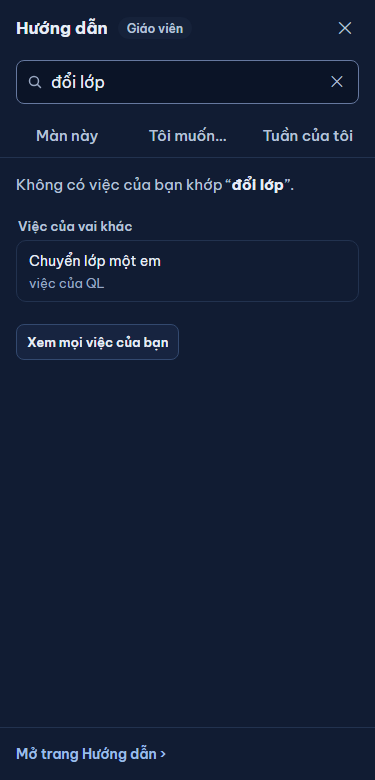
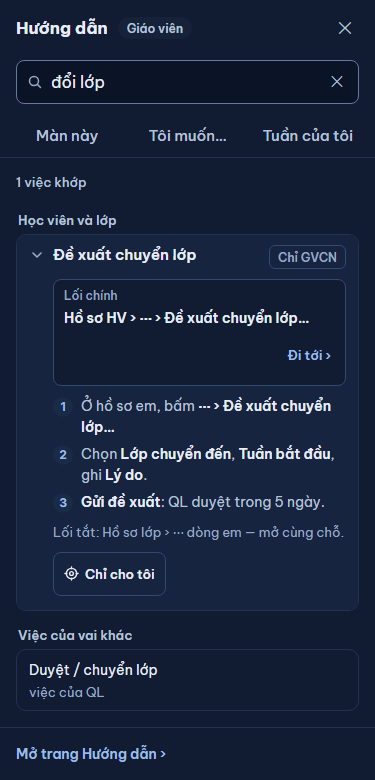
thiet-ke v14: C2 tìm "đổi lớp" ra Đề xuất chuyển lớp (GVCN) + C3 không khớp thật (xoá tài khoản)

diff --git a/thiet-ke/v14/huong-dan.html b/thiet-ke/v14/huong-dan.html
@@ -225,7 +225,8 @@ mark { background:var(--hong-nen); color:var(--hong-chu); border-radius:3px; pad
     <div class="cap">
       <figure><figcaption>C · 1440 tối</figcaption><div class="man toi" data-k="c1"></div></figure>
       <figure><figcaption>C · 375 sáng</figcaption><div class="dt sang" data-k="c1m"></div></figure>
-      <figure><figcaption>C2 · 375 tối · không có việc của bạn khớp → chỉ việc vai khác</figcaption><div class="dt toi" data-k="c2m"></div></figure>
+      <figure><figcaption>C2 · 375 tối · "đổi lớp" khớp từ đồng nghĩa → Đề xuất chuyển lớp + việc vai khác</figcaption><div class="dt toi" data-k="c2m"></div></figure>
+      <figure><figcaption>C3 · 375 sáng · không có việc của bạn khớp</figcaption><div class="dt sang" data-k="c3m"></div></figure>
     </div>
   </section>
 
@@ -423,9 +424,15 @@ mark { background:var(--hong-nen); color:var(--hong-chu); border-radius:3px; pad
       { ten: 'Làm cả lớp một lần' }
     ])) + khongLam([['Xếp, dời lịch MT', 'việc của QL', 1], ['Duyệt yêu cầu', 'việc của QL', 1]]);
 
-  /* C2: không có việc CỦA VAI NÀY khớp → vẫn chỉ đúng chỗ: việc vai khác (chữ nhạt, không link) + từ đồng nghĩa (đổi lớp → Chuyển lớp) */
-  var thanC2 = '<div class="rong-tim"><p>Không có việc của bạn khớp “<b>đổi lớp</b>”.</p></div>' +
-    '<div><h3 class="nhom-hd">Việc của vai khác</h3><div class="khong-lam vai-khac"><div><span>Chuyển lớp một em</span><span class="cua-ai">việc của QL</span></div></div></div>' +
+  /* C2: "đổi lớp" khớp qua từ đồng nghĩa → việc GVCN "Đề xuất chuyển lớp" (ChuyenLopPanel cheDo="de-xuat", ⋯ hồ sơ HV / ⋯ dòng em hồ sơ lớp)
+     + việc vai khác (chữ nhạt, không link). Khớp qua từ đồng nghĩa: không tô hồng. */
+  var vaiKhac = function (ten, ai) { return '<div><h3 class="nhom-hd">Việc của vai khác</h3><div class="khong-lam vai-khac"><div><span>' + e(ten) + '</span><span class="cua-ai">' + e(ai) + '</span></div></div></div>'; };
+  var thanC2 = '<p class="dem-kq">1 việc khớp</p><div class="ds-nhom">' + nhomViec('Học viên và lớp', [
+      { ten: 'Đề xuất chuyển lớp', vai: 'Chỉ GVCN', mo: 1, chinh: 'Hồ sơ HV › ⋯ › Đề xuất chuyển lớp…',
+        buoc: ['Ở hồ sơ em, bấm **⋯ › Đề xuất chuyển lớp…**', 'Chọn **Lớp chuyển đến**, **Tuần bắt đầu**, ghi **Lý do**.', '**Gửi đề xuất**: QL duyệt trong 5 ngày.'],
+        tat: 'Hồ sơ lớp › ⋯ dòng em — mở cùng chỗ.' }]) + vaiKhac('Duyệt / chuyển lớp', 'việc của QL') + '</div>';
+  /* C3: thật sự không có việc của vai này → một câu + việc vai khác + về danh sách đủ */
+  var thanC3 = '<div class="rong-tim"><p>Không có việc của bạn khớp “<b>xoá tài khoản</b>”.</p></div>' + vaiKhac('Xoá tài khoản', 'việc của Quản trị') +
     '<div><button class="nut nut-nho">Xem mọi việc của bạn</button></div>';
   var K = {};
   K.a1 = thanh({ vai: 'gv', dang: 'Test', badge: 9, ten: 'Trần Ngọc Hà', mo: 1, tin: 2 }) + lichTest() + panel({ vai: 'Giáo viên', tab: 0, than: thanA });
@@ -437,6 +444,7 @@ mark { background:var(--hong-nen); color:var(--hong-chu); border-radius:3px; pad
   K.c1 = thanh({ vai: 'gv', dang: 'Test', badge: 9, ten: 'Trần Ngọc Hà', mo: 1, tin: 2 }) + lichTest() + panel({ vai: 'Giáo viên', tab: 1, q: 'nhập điểm', than: thanC });
   K.c1m = thanh({ dt: 1, mo: 1, tin: 2 }) + panel({ vai: 'Giáo viên', tab: 1, q: 'nhập điểm', than: thanC });
   K.c2m = thanh({ dt: 1, mo: 1, tin: 2 }) + panel({ vai: 'Giáo viên', tab: 1, q: 'đổi lớp', than: thanC2 });
+  K.c3m = thanh({ dt: 1, mo: 1, tin: 2 }) + panel({ vai: 'Giáo viên', tab: 1, q: 'xoá tài khoản', than: thanC3 });
   K.d1 = thanh({ vai: 'tvv', dang: 'Học viên & Lớp', ten: 'Phạm Thu Trang', mo: 1 }) + '<div class="noi-dung"><div class="dau-trang"><h1>Học viên &amp; Lớp</h1></div><div class="the"><div class="than-t">' + [92, 80, 88, 70, 84, 76].map(function (w) { return '<div class="skel" style="width:' + w + '%"></div>'; }).join('') + '</div></div></div>' +
     panel({ vai: 'Tư vấn viên', tab: 2, than: thanD });
   K.d1m = thanh({ dt: 1, mo: 1 }) + panel({ vai: 'Tư vấn viên', tab: 2, than: thanD });

diff --git a/thiet-ke/v14/huong-dan-ghi-chu.md b/thiet-ke/v14/huong-dan-ghi-chu.md
@@ -93,6 +93,7 @@ Trạng thái mockup: **A** GV · Lịch Test tuần · Màn này · **B** QL ·
 3. **[XM-2] Tuần của tôi MỞ TẠI CHỖ:** nhóm theo nhịp (Mỗi sáng · Khi có · Khi gia đình báo · Trước khi em thi · Sau khi em thi), mỗi việc một dòng gập / mở như Tôi muốn… (mở ra: Lối chính + bước); bỏ mũi tên nhảy tab. Lý do: xử lý tại chỗ + một danh sách một kiểu mở. (Thay đặc tả 3.5 — PTA sửa đặc tả.)
 4. **[XM-3]** "Không làm ở đây" không lặp đích đã có ở Sau — A bỏ dòng "Xác nhận Case, PA · ghi kết quả", thay "Xem điểm cả lớp qua các lượt → Hồ sơ lớp ›".
 5. **P2:** giữ ô **Lối chính** một dáng ở cả 3 tab (thay "dòng nhạt" đặc tả 3.3) — đồng ý.
+6. **C2 sửa nội dung (PTA rà lần 2):** GVCN CÓ việc **Đề xuất chuyển lớp** (#914) — gõ "đổi lớp" ra việc đó (nhãn Chỉ GVCN; Lối chính **Hồ sơ HV › ⋯ › Đề xuất chuyển lớp…**, lối tắt Hồ sơ lớp › ⋯ dòng em — tra `ChuyenLopPanel` `cheDo="de-xuat"`, `shared/domain/hocVienLop.ts`; bước theo nhãn form: Lớp chuyển đến · Tuần bắt đầu · Lý do · **Gửi đề xuất**) + "Việc của vai khác": **Duyệt / chuyển lớp — việc của QL**. Trạng thái không khớp chuyển sang **C3** "xoá tài khoản" → "Xoá tài khoản — việc của Quản trị" (nút có thật ở `AccountsAdmin`).
 
 ## 4b. [XM] đã gửi PTA (trả lời ở 3b)
 - **[XM-1] Tìm theo từ đồng nghĩa và việc vai khác** (C2): gõ "đổi lớp" ra "Chuyển lớp một em — việc của QL". Đặc tả 3.2 chỉ giữ `locHd` (bỏ dấu). Muốn có: thêm trường `tuKhac` cho mỗi việc + đọc cả việc của vai khác (chỉ tên + "việc của …", không bước). Chữ khớp qua từ đồng nghĩa KHÔNG tô hồng. Không thì C2 chỉ còn câu "Không có việc nào khớp" + Xem mọi việc.
@@ -113,4 +114,4 @@ F3: QL Vy không dạy lớp nên menu không có "Hồ sơ giáo viên"; QL có
 
 ## 5. Ảnh (thiet-ke/v14/anh/)
 Chụp bằng Chrome headless từ chính tệp mockup (`huong-dan.html?k={khung}&n={toi|sang}`), phông Be Vietnam Pro đã nạp (`document.fonts.check('600 15px "Be Vietnam Pro"', 'ợ')` = true).
-A1 `a1-1440-toi` · `a1-375-sang` · A2 `a2-1440-toi` · B `b-1440-toi` · `b-375-sang` · C `c-1440-toi` · `c-375-sang` · C2 `c2-375-toi` · D `d-1440-toi` · `d-375-sang` · E `e-1440-toi` · `e-1440-sang` · F0 `f0-1440-toi` · `f0-1440-sang` · F `f1-375-sang` · `f2-375-toi` · `f3-375-sang`.
+A1 `a1-1440-toi` · `a1-375-sang` · A2 `a2-1440-toi` · B `b-1440-toi` · `b-375-sang` · C `c-1440-toi` · `c-375-sang` · C2 `c2-375-toi` · C3 `c3-375-sang` · D `d-1440-toi` · `d-375-sang` · E `e-1440-toi` · `e-1440-sang` · F0 `f0-1440-toi` · `f0-1440-sang` · F `f1-375-sang` · `f2-375-toi` · `f3-375-sang`.
